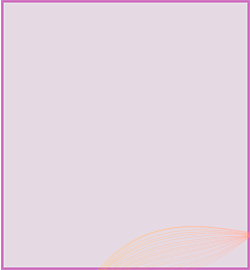
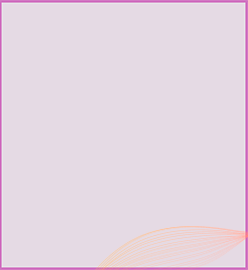
fix: style footer

Changed region(s): [[0.0, 0.0, 0.0282, 1.0], [0.3952, 0.8889, 0.5363, 1.0]]

diff --git a/src/pages/footer.jsx b/src/pages/footer.jsx
@@ -9,8 +9,8 @@ function Footer() {
             <div>
                 <p>
                     Контакты для сайта:<br />
-                    Telephone: +7(499) 673-499-5<br />
-                    Email: info@data-pilot.ru <br/>
+                     +7(499) 673-499-5<br />
+                     info@data-pilot.ru <br/>
                 </p>
             </div>
         </div>

diff --git a/src/pages/footer.scss b/src/pages/footer.scss
@@ -37,8 +37,8 @@
     width: 116px;
     height: 1px;
     transform: rotate(90deg);
-    right: 30px;
-    left: 0;
+    right: 0;
+    left: 76px;
     top: 8px;
     bottom: 0;
     margin: auto;
@@ -66,7 +66,7 @@
     }
     p {
       margin: 0;
-      font-size: 13px;
+      font-size: 12px;
       line-height: 20px;
     }
     .line {

diff --git a/src/pages/nav.scss b/src/pages/nav.scss
@@ -81,12 +81,12 @@
   }
 
   @media screen and (max-width: $phone) {
-    top: 0;
+    top: -5px;
     left: 0;
     margin: 0;
-    bottom: 0;
+    bottom: -5px;
     right: 0;
-    width: 90%;
+    width: 92%;
     padding: 20px;
     background-size: 100% 100%;
     img {

diff --git a/src/pages/module.scss b/src/pages/module.scss
@@ -71,7 +71,7 @@
       padding: 0 10px;
       margin-top: 80px;
       li {
-        font-size: 15px;
+        font-size: 12px;
         line-height: 20px;
         margin-bottom: 15px;
 
